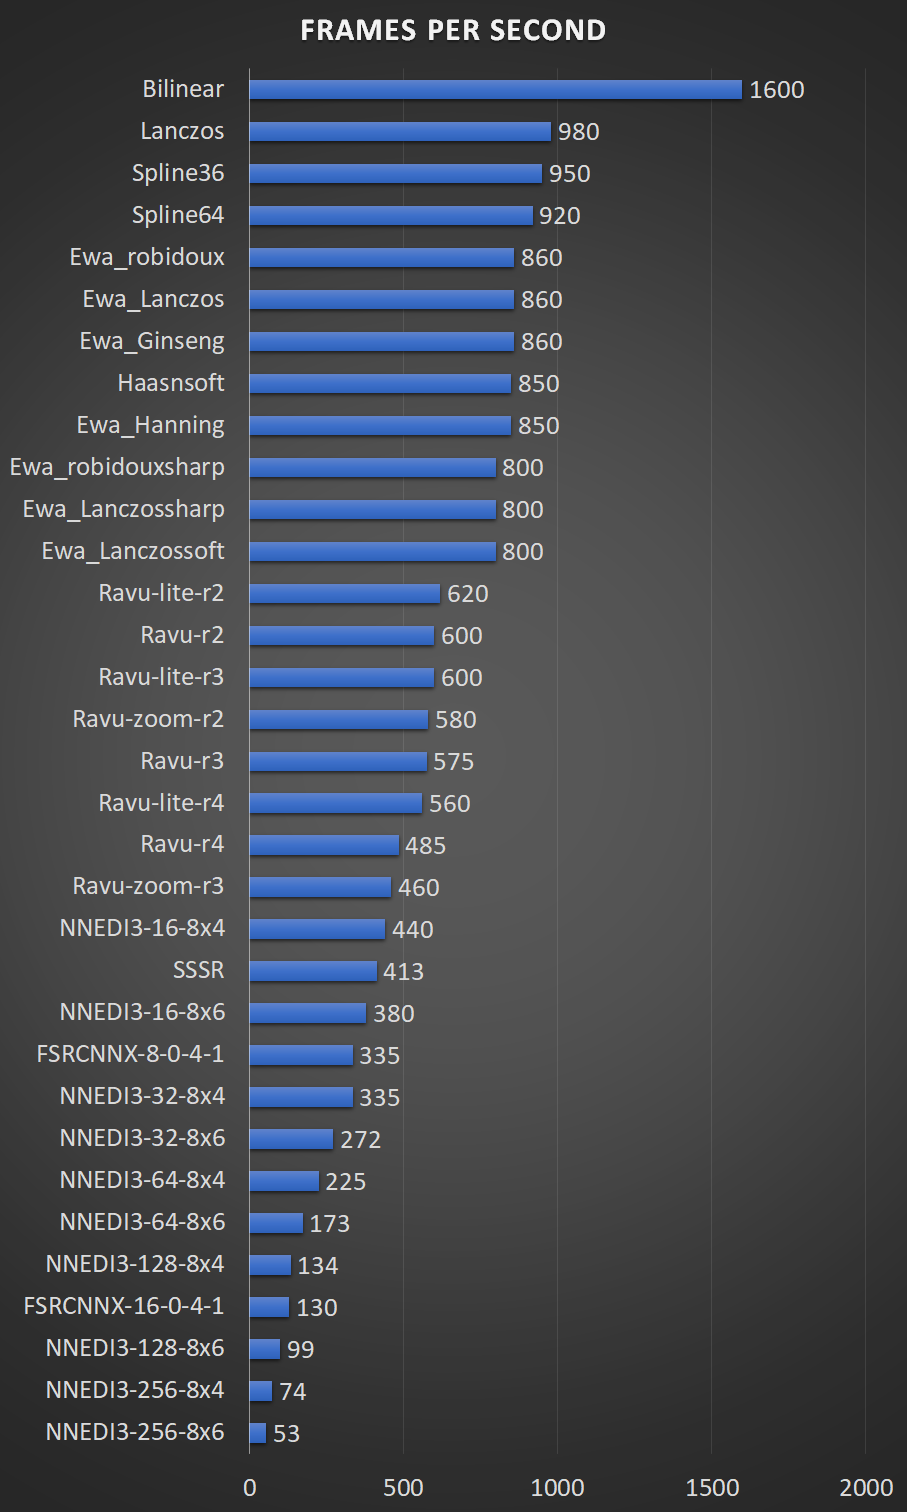
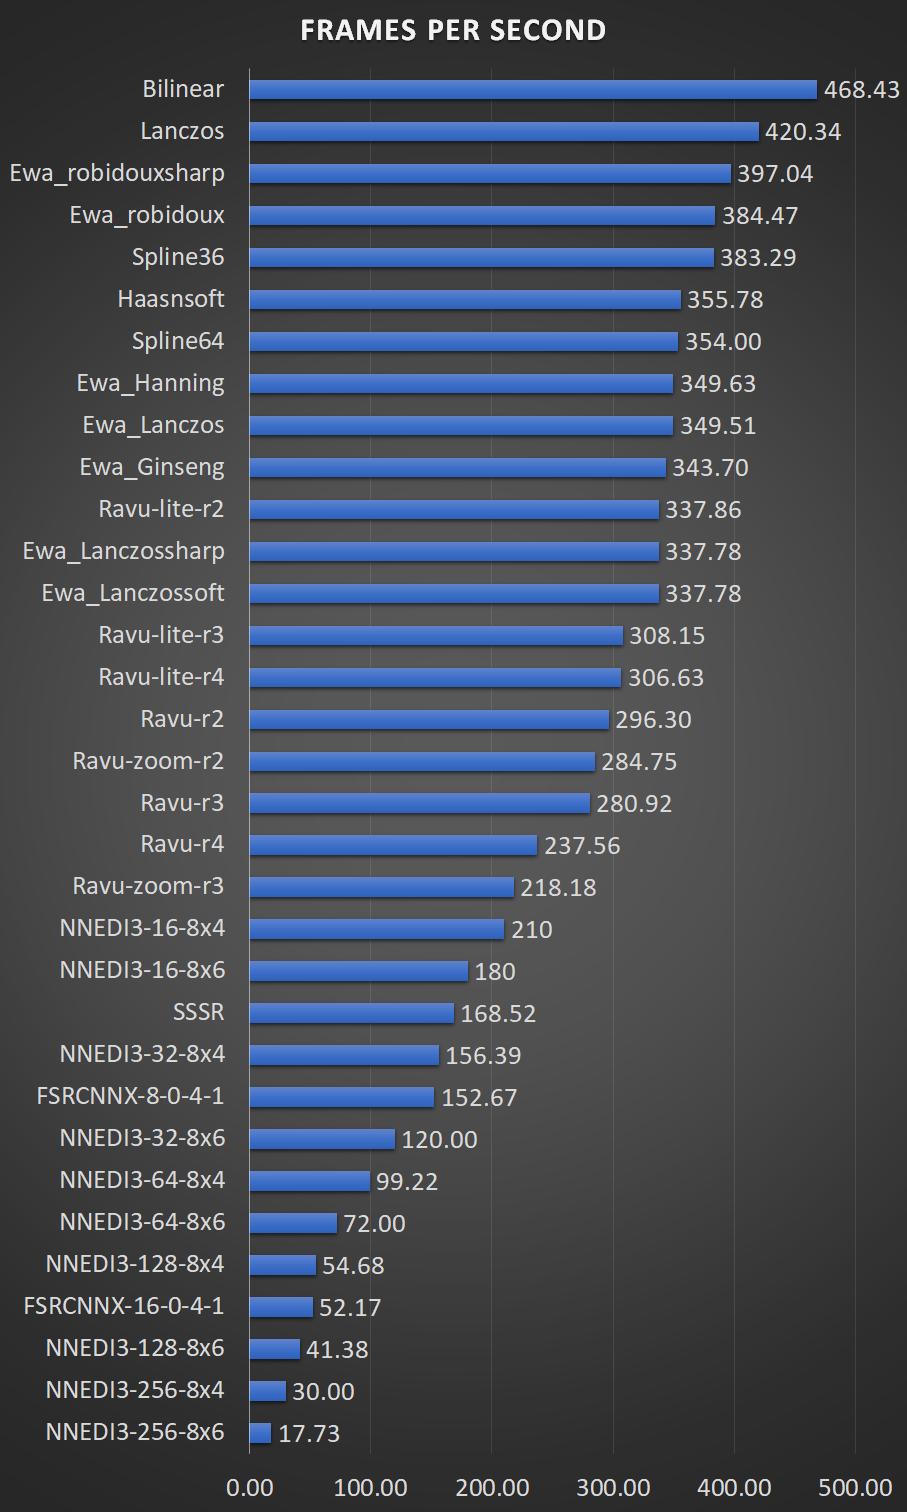
Updating fps measurements

diff --git a/mpv_upscaling.html b/mpv_upscaling.html
@@ -44,6 +44,10 @@
             Before attempting to reproduce, make sure to grab the latest version of <a href="https://mpv.io/">mpv</a> and updated user shaders. You can get 
             the shaders from <a href="https://github.com/bjin/mpv-prescalers">bjin</a> and <a href="https://github.com/igv/FSRCNN-TensorFlow/releases">igv (FSRCNNX)</a>/<a href="https://gist.github.com/igv">igv (SSSR)</a>.
         <p>
+            UPDATE - 16/04/2019: New FPS measurement methodology, files now play for 4 seconds and then I calculate how many frames were displayed based on which frame it stopped at after the time-frame has elapsed. 
+            --scalers-resizes-only was also removed since the half pixel shift is not noticeable during playback. Previous results had different numbers, but the order didn't exactly significantly change. 
+        </p>
+        <p>
             UPDATE - 06/04/2019: Tables updated with newer versions of FSRCNNX again. 
         </p>
         <p>
@@ -159,9 +163,9 @@
         <h3 id="methodology">Testing methodology</h3>
         <p>
             Performance measurements were done upscaling an animation video encoded into 8bit AVC from 1280x720 to 2560x1440. Utilising mpv
-            with a benchmarking profile, all settings from profile=gpu-hq, fixing scalers
-            that do half-pixel shifts, with Vulkan as the renderer and hardware decoding turned off. The machine used has
-            an Ivy Bridge i5 3470, a Polaris RX 470 and user shaders were always compute shaders when possible.
+            with a benchmarking profile, all settings from profile=gpu-hq, with Vulkan as the renderer and hardware decoding turned off. The machine used has
+            an Ivy Bridge i5 3470, a Polaris RX 470 and user shaders were always compute shaders when possible. The methodology consists of letting mpv play the file for 4 seconds 
+            and then seeing at which frame it stopped. 
         </p>
         <p>
             Quality measurements were done in 2 test images, one from animation and another one from live action. Debanding was turned off to prevent loss of fine detail.
